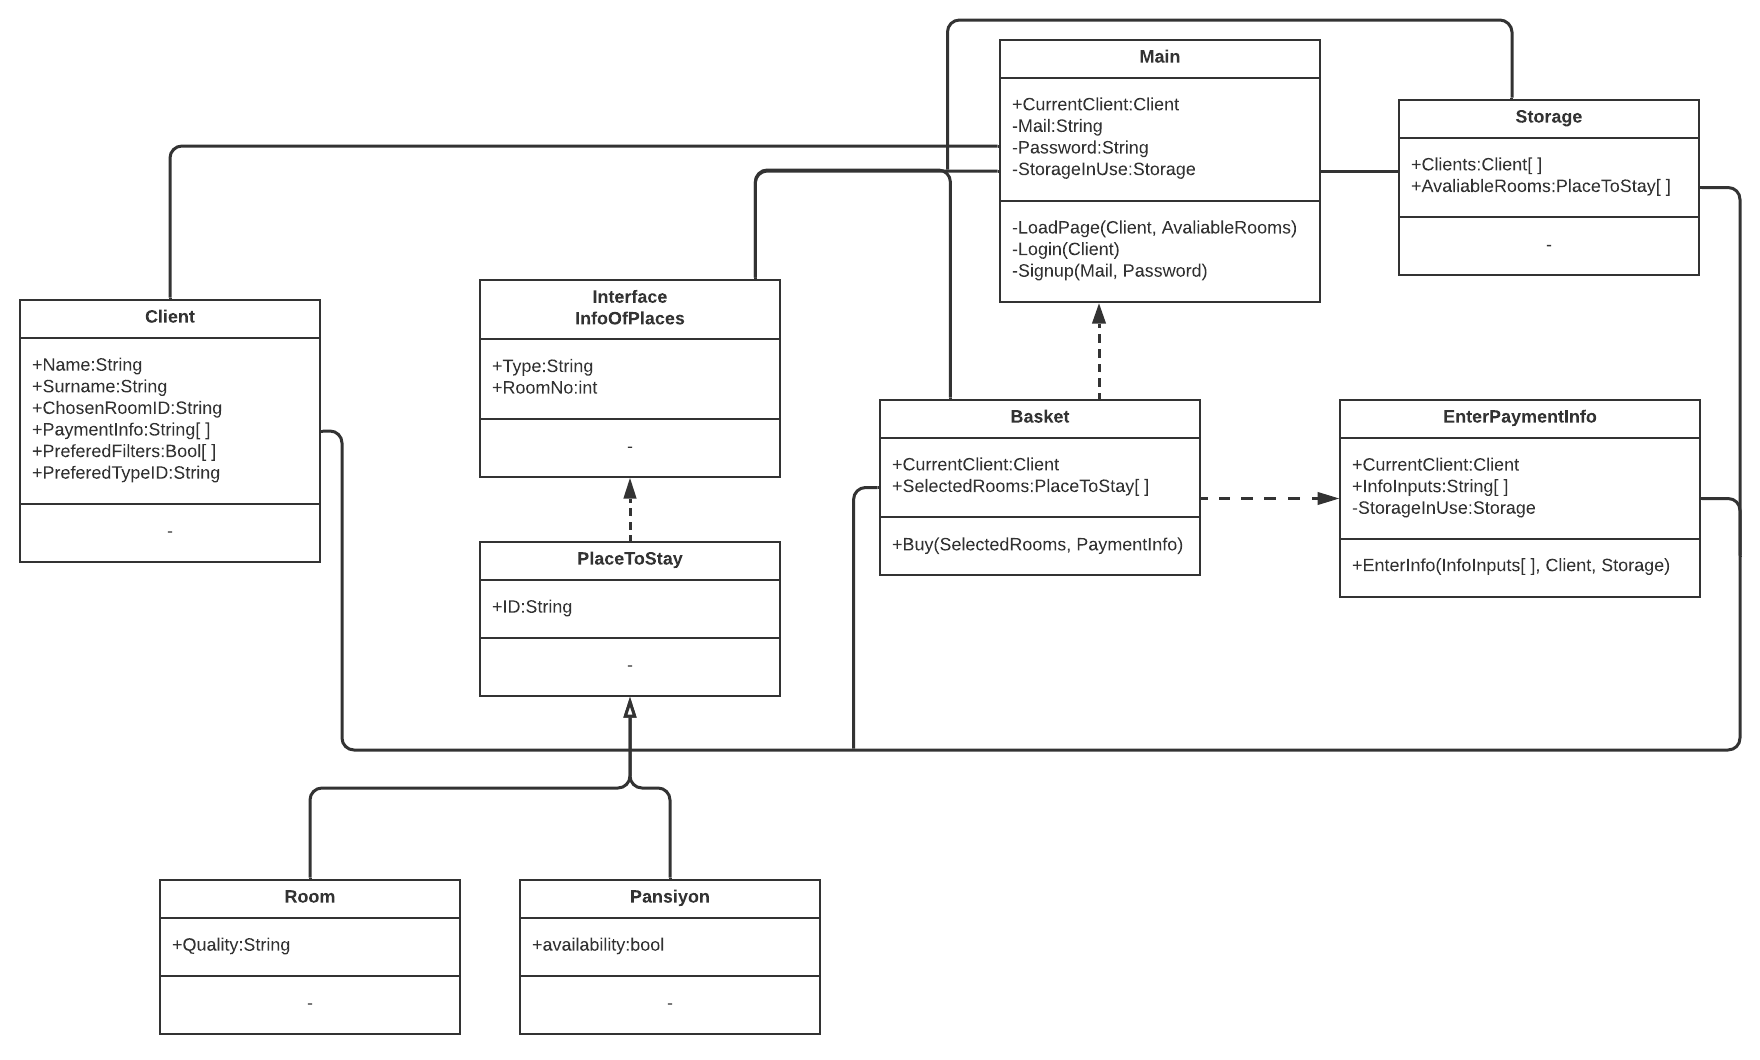
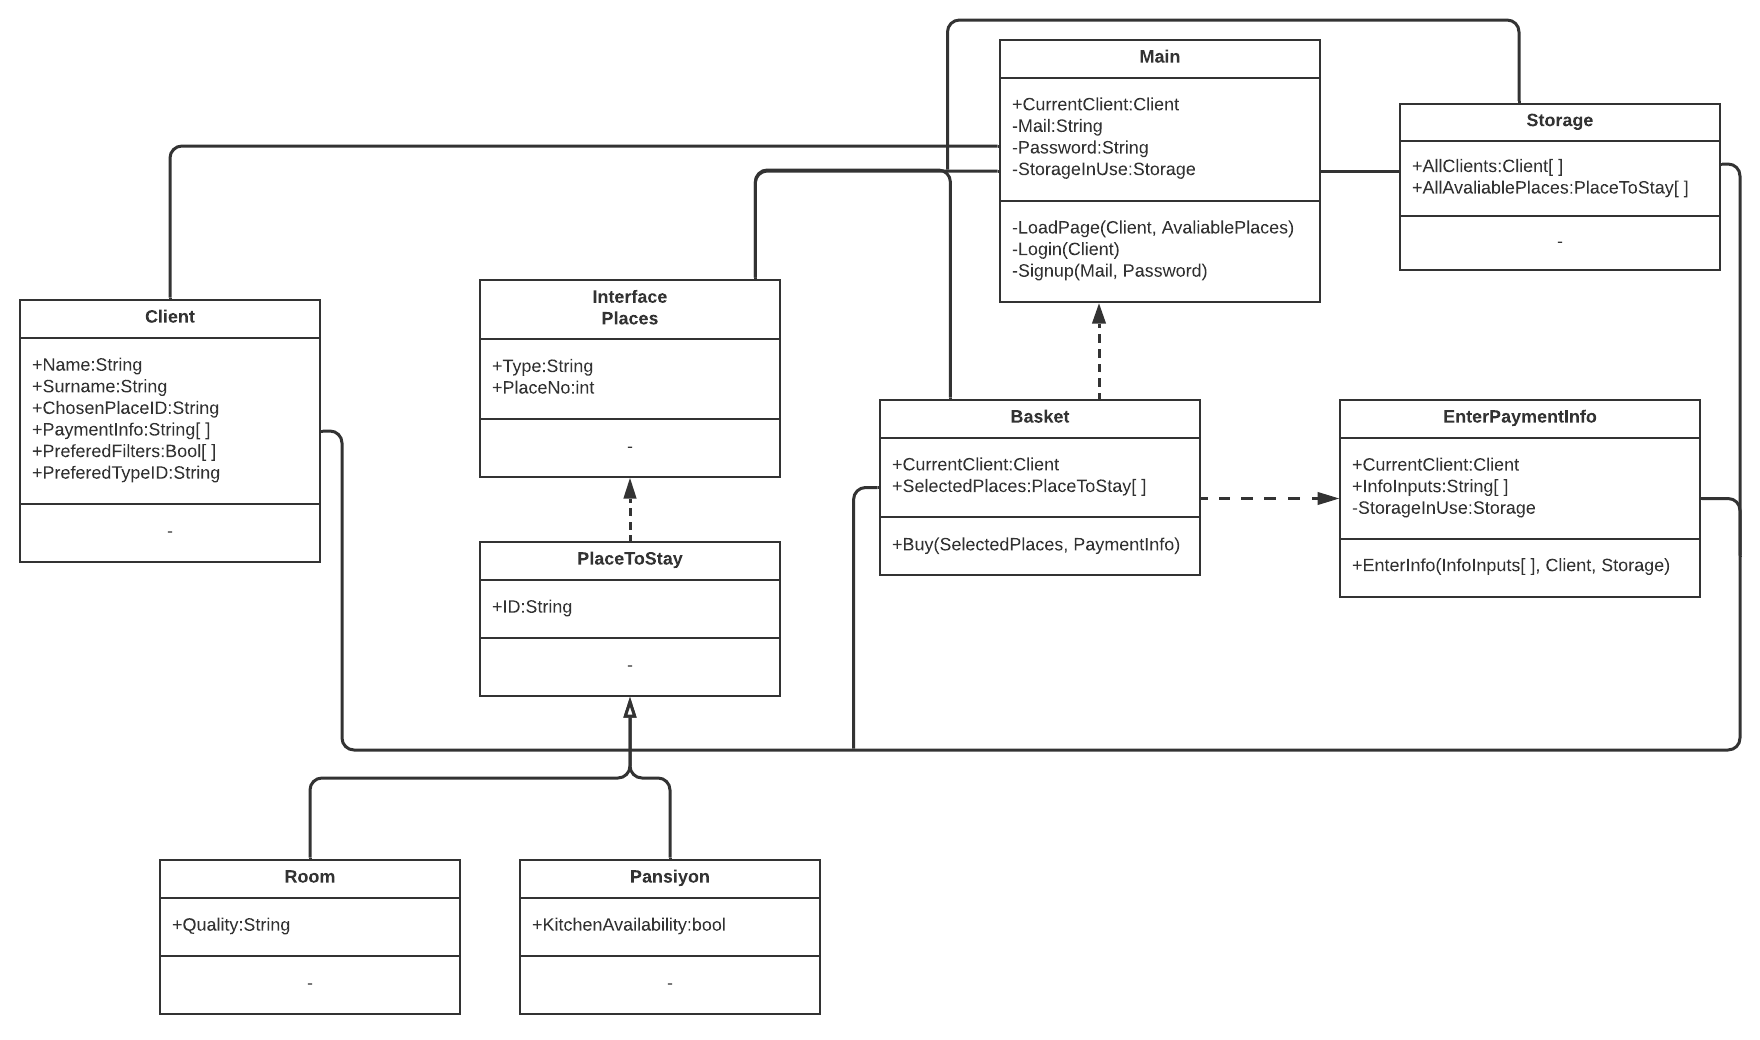
Corrections
Corrections according to new "inheritance and interface," that was add.

diff --git a/Code/main.java b/Code/main.java
@@ -1,16 +1,16 @@
 public class Main
 {
-    public Client currentClient;
+    public Client CurrentClient;
     private String Mail;
     private String Password;
     private Storage StorageInUse;
     
-    private void LoadPage(Client _client, Room[] _AvailableRooms)
+    private void LoadPage(Client client, Room[] AvailablePlaces)
     {
         
     }
     
-    private void Login(Client _client)
+    private void Login(Client client)
     {
         
     }

diff --git a/Code/PlaceToStay.java b/Code/PlaceToStay.java
@@ -1,0 +1,24 @@
+interface Places
+{
+    public String Type;
+    public int PlaceNo;
+}
+
+class PlaceToStay implements Places
+{
+    public String ID;
+}
+
+class Room extends PlaceToStay
+{
+    public String Type;
+    public int PlaceNo;
+    public String Quality;
+}
+
+class Pansiyon extends PlaceToStay
+{
+    public String Type;
+    public int PlaceNo;
+    public bool KitchenAvailability;
+}

diff --git a/Code/basket.java b/Code/basket.java
@@ -1,9 +1,9 @@
-public class Main
+public class Basket
 {
-    public Client currentClient;
-    public Room[] SelectedRooms;
+    public Client CurrentClient;
+    public PlaceToStay[] SelectedPlaces;
     
-    private void Buy(Room[] _SelectedRooms, string[] _PaymentInfo)
+    public void Buy(PlaceToStay[] SelectedRooms, string[] PaymentInfo)
     {
         
     }

diff --git a/Code/enterpaymentinfo.java b/Code/enterpaymentinfo.java
@@ -4,7 +4,7 @@ public class enterpaymentinfo
     public String[] InfoInputs;
     private Storage StorageInUse;
     
-    private void EnterInfo(String[] _InfoInputs, public Client _currentClient;)
+    private void EnterInfo(String[] InfoInputs, Client client, Storage storage)
     {
         
     }

diff --git a/Code/client.java b/Code/client.java
@@ -2,7 +2,7 @@ class Client
 {
     public String Name;
     public String Surname;
-    public String ChosenRoomID;
+    public String ChosenPlaceID;
     public String[] PaymentInfo;
     public boolean[] PreferedFilters;
     public String PreferedTypeID;

diff --git a/Code/Storage.java b/Code/Storage.java
@@ -1,5 +1,5 @@
-public class Main
+public class Storage
 {
-    public Client[] AllClient;
-    public Room[] AllAvaliableRooms;
+    public Client[] AllClients;
+    public PlaceToStay[] AllAvaliablePlaces
 }
